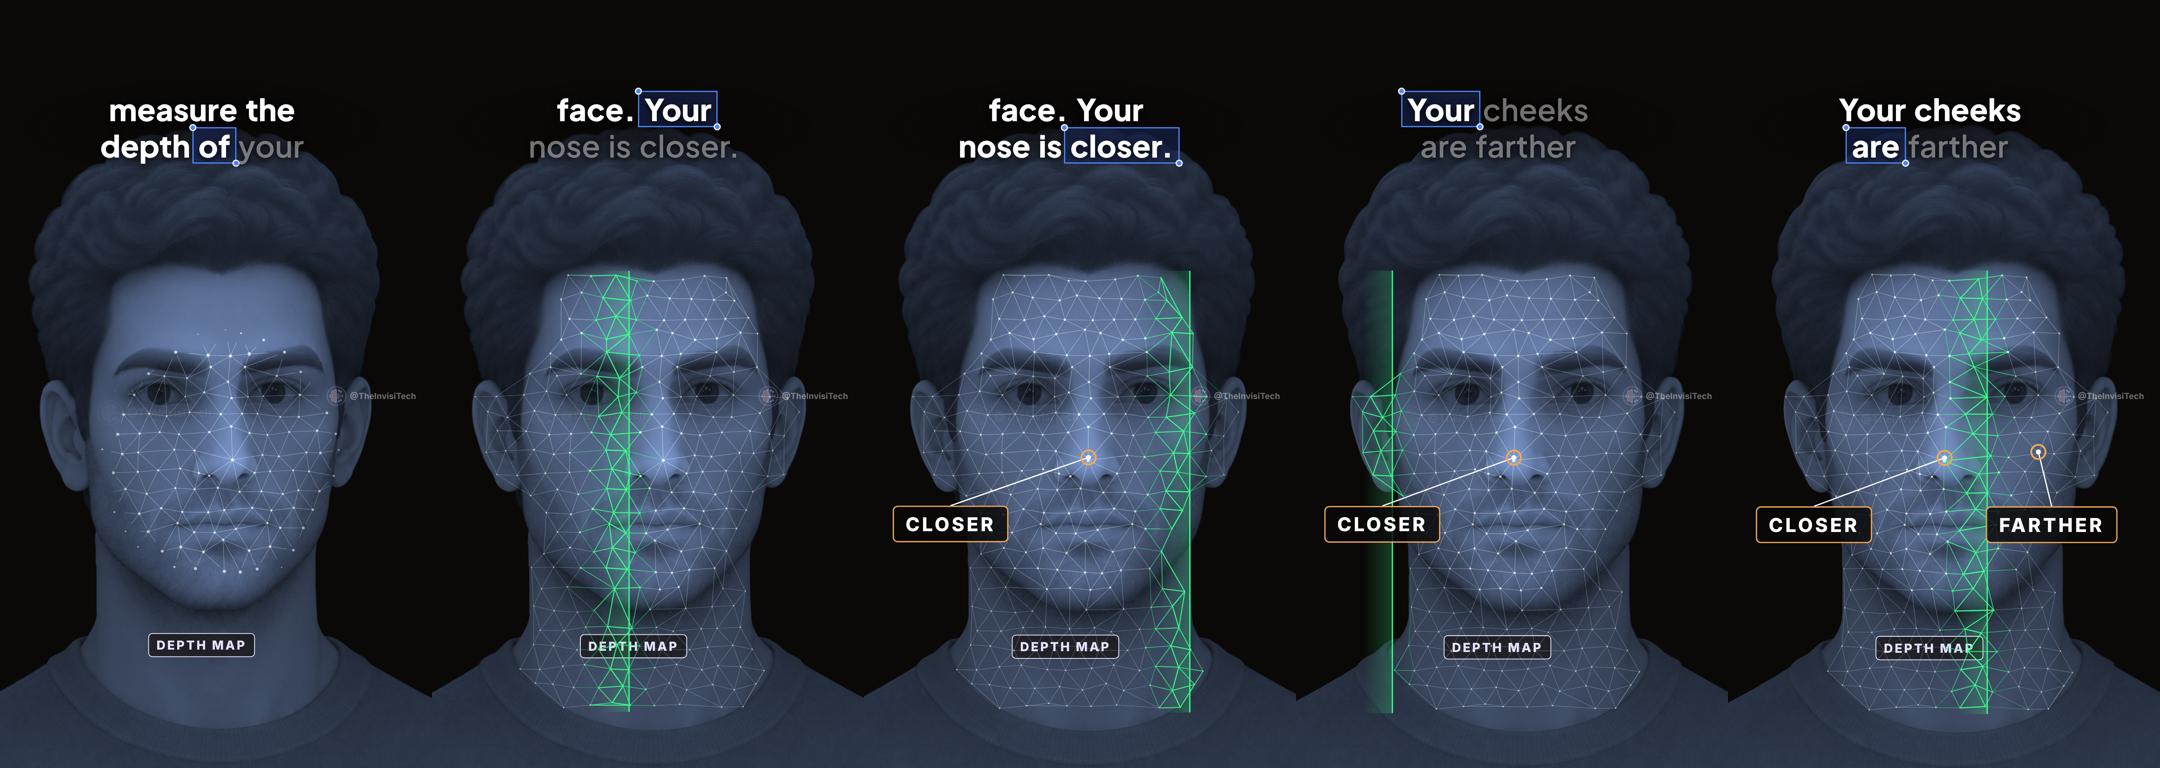
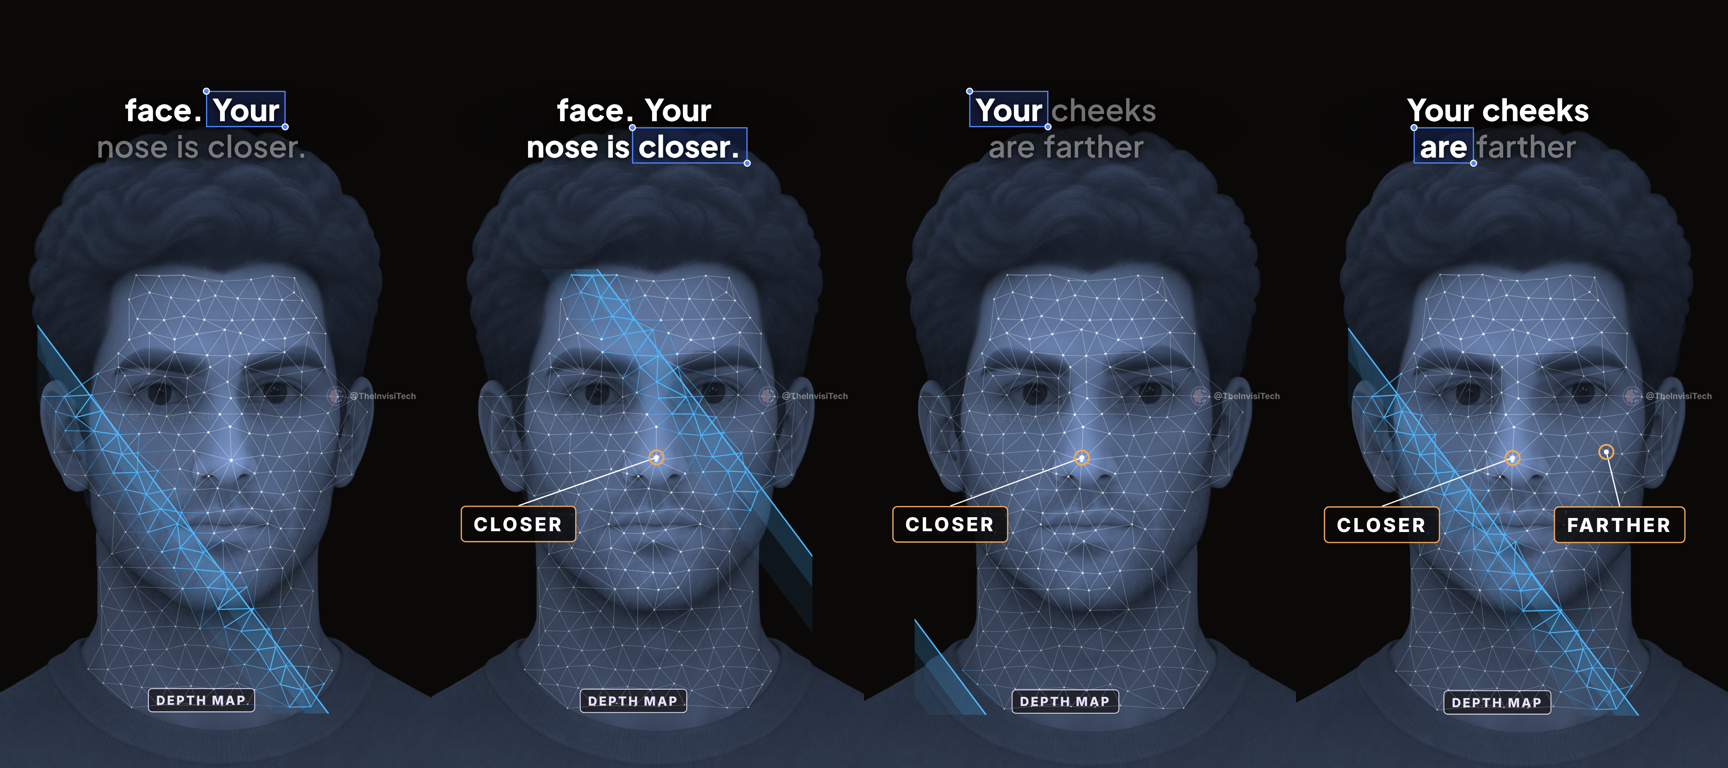
Mirror Short: tear-down happens on the phone (parts pulled up and explained); depth scan is a slanted blue line
Claude-Session: https://claude.ai/code/session_01GXcKc5WnFrVWBsHLe8YpAy

diff --git a/face-id/mirror-short/src/scenes/HandPhone.tsx b/face-id/mirror-short/src/scenes/HandPhone.tsx
@@ -6,13 +6,15 @@ import { FONT, ramp } from '../theme';
 //   0– 30  end of the hook: quick push toward the phone he is holding
 //  30– 50  zoom to the top of that phone
 //  54– 72  second zoom, right into its Dynamic Island; the screen takes on a pixel-grid look
-//  74–135  the TrueDepth parts inside the island are drawn and labelled one by one:
-//          IR CAMERA, FLOOD ILLUMINATOR, DOT PROJECTOR (+ the front camera lens)
+//  74– 94  the TrueDepth parts inside the island are drawn and named: IR CAMERA, FLOOD ILLUMINATOR, DOT PROJECTOR
+//  94–147  tear-down on the phone: the parts are pulled up out of the island, then explained one at a time
 // A closed padlock sits under the island; nothing is unlocked here.
 const K = 1080 / 752, TOP = -5;                        // still is 752 x 1344, shown full-bleed
 const ISL = { x: 377 * K, y: 183 * K + TOP, w: 112 * K, h: 32 * K };   // its Dynamic Island on screen at scale 1
 const out3 = (x: number) => 1 - Math.pow(1 - x, 3), io = (x: number) => x * x * (3 - 2 * x);
 const RED = '#ff4d63', BLUE = '#6fa8ff', TEAL = '#63d6c9';
+export const TEAR = 94;                                 // f at which the parts are pulled up out of the island
+const hash = (i: number) => { const x = Math.sin(i * 12.9898) * 43758.5453; return x - Math.floor(x); };
 
 export const HandPhone: React.FC<{ f: number }> = ({ f }) => {
   const z = ramp(f, 30, 50, 0, 1, io), z2 = ramp(f, 54, 72, 0, 1, io);
@@ -27,6 +29,13 @@ export const HandPhone: React.FC<{ f: number }> = ({ f }) => {
     { fx: 0.51, label: 'DOT PROJECTOR', ly: 592, at: 86, anchor: 'start' as const, lx: -8 },
   ];
   const r = h * 0.3;
+  const LIFT = 285, active = f < 106 ? -1 : Math.min(2, Math.floor((f - 106) / 14));
+  const MODS = [
+    { fx: 0.14, k: 1, at: 76, col: TEAL, label: 'IR CAMERA', does: 'reads the dots on your face' },
+    { fx: 0.31, k: 0.8, at: 79, col: RED, label: 'FLOOD ILLUMINATOR', does: 'lights your face in infrared' },
+    { fx: 0.51, k: 1, at: 84, col: RED, label: 'DOT PROJECTOR', does: 'fires 30,000+ invisible dots' },
+    { fx: 0.83, k: 1.25, at: 76, col: BLUE, label: 'FRONT CAMERA', does: '' },
+  ];
   return (
     <AbsoluteFill style={{ backgroundColor: '#000', overflow: 'hidden' }}>
       <div style={{ position: 'absolute', inset: 0, transformOrigin: `${ISL.x}px ${ISL.y}px`, transform: `translate(${cx - ISL.x}px, ${cy - ISL.y}px) scale(${s})` }}>
@@ -39,34 +48,46 @@ export const HandPhone: React.FC<{ f: number }> = ({ f }) => {
       <AbsoluteFill style={{ opacity: 0.55 * ramp(f, 60, 74), background: 'radial-gradient(70% 45% at 50% 42%, rgba(60,70,160,.0), rgba(20,24,70,.55))' }} />
       {f >= 66 && <svg width={1080} height={1920} style={{ position: 'absolute', inset: 0, opacity: on }}>
         <rect x={left} y={top} width={w} height={h} rx={h / 2} fill="#04050a" />
-        {/* IR camera */}
-        <g opacity={ramp(f, 76, 80)}>
-          <circle cx={part(0.14)} cy={cy} r={r} fill="#0b0d16" stroke={TEAL} strokeWidth={5} strokeDasharray="7 6" />
-          <circle cx={part(0.14) - r * 0.2} cy={cy - r * 0.2} r={r * 0.16} fill={BLUE} />
-        </g>
-        {/* flood illuminator */}
-        <rect x={part(0.31) - r * 0.55} y={cy - r * 0.55} width={r * 1.1} height={r * 1.1} rx={6} fill="#1a0b10" stroke={RED} strokeWidth={4} strokeDasharray="6 5" opacity={ramp(f, 79, 83)} />
-        {/* dot projector */}
-        <g opacity={ramp(f, 84, 88)}>
-          <circle cx={part(0.51)} cy={cy} r={r} fill="#2a0c12" stroke={RED} strokeWidth={5} strokeDasharray="7 6" />
-          {[-0.45, -0.15, 0.15, 0.45].map((k) => <line key={k} x1={part(0.51) - r * 0.6} x2={part(0.51) + r * 0.6} y1={cy + r * k} y2={cy + r * k} stroke="#ffb3bd" strokeWidth={3.5} strokeDasharray="9 5" />)}
-        </g>
-        {/* front camera (not part of the labels) */}
-        <g opacity={ramp(f, 76, 80)}>
-          <circle cx={part(0.83)} cy={cy} r={r * 1.25} fill="#0a0d1e" stroke={BLUE} strokeWidth={5} strokeDasharray="7 6" />
-          <circle cx={part(0.83)} cy={cy} r={r * 0.62} fill="#131c44" /><circle cx={part(0.83) - r * 0.22} cy={cy - r * 0.25} r={r * 0.17} fill="#9fb6ff" />
-        </g>
-        {PARTS.map((p) => { const o = ramp(f, p.at, p.at + 4), x = part(p.fx); return (
+        {/* tear-down, on the phone itself: from TEAR the parts are pulled straight up out of the island, leaving their
+            sockets behind, and each one is explained in turn */}
+        {MODS.map((m, i) => { const x = part(m.fx), tr = ramp(f, TEAR + i * 2, TEAR + 10 + i * 2, 0, 1, out3), act = active === i, sc = (1 + 0.3 * tr) * (act ? 1.18 + 0.04 * Math.sin(f / 2) : 1), y = cy - LIFT * tr;
+          return (
+            <g key={m.label}>
+              {tr > 0 && <><circle cx={x} cy={cy} r={r * m.k * 0.92} fill="#000" stroke="#2a2d3a" strokeWidth={3} />
+                <line x1={x} y1={cy - r * m.k} x2={x} y2={y + r * m.k * sc} stroke={m.col} strokeWidth={2.5} strokeDasharray="6 8" opacity={0.7} /></>}
+              <g transform={`translate(${x} ${y}) scale(${sc})`} opacity={ramp(f, m.at, m.at + 4) * (active >= 0 && !act && i < 3 ? 0.45 : 1)}>
+                {i === 0 && <><circle r={r} fill="#0b0d16" stroke={TEAL} strokeWidth={5} strokeDasharray="7 6" /><circle cx={-r * 0.2} cy={-r * 0.2} r={r * 0.16} fill={BLUE} /></>}
+                {i === 1 && <rect x={-r * 0.55} y={-r * 0.55} width={r * 1.1} height={r * 1.1} rx={6} fill="#1a0b10" stroke={RED} strokeWidth={4} strokeDasharray="6 5" />}
+                {i === 2 && <><circle r={r} fill="#2a0c12" stroke={RED} strokeWidth={5} strokeDasharray="7 6" />
+                  {[-0.45, -0.15, 0.15, 0.45].map((k) => <line key={k} x1={-r * 0.6} x2={r * 0.6} y1={r * k} y2={r * k} stroke="#ffb3bd" strokeWidth={3.5} strokeDasharray="9 5" />)}</>}
+                {i === 3 && <><circle r={r * 1.25} fill="#0a0d1e" stroke={BLUE} strokeWidth={5} strokeDasharray="7 6" /><circle r={r * 0.62} fill="#131c44" /><circle cx={-r * 0.22} cy={-r * 0.25} r={r * 0.17} fill="#9fb6ff" /></>}
+              </g>
+              {/* what the active part does, shown with light */}
+              {act && i === 0 && [0, 1, 2].map((k) => { const u = ((f / 12) + k / 3) % 1; return <circle key={k} cx={x} cy={y} r={r * sc * (1.9 - 0.9 * u)} fill="none" stroke={TEAL} strokeWidth={3} opacity={0.8 * u} />; })}
+              {act && i === 1 && <path d={`M ${x} ${y} L ${x - 190} ${y - 300} L ${x + 190} ${y - 300} Z`} fill={RED} opacity={0.16 + 0.08 * Math.sin(f / 2)} />}
+              {act && i === 2 && Array.from({ length: 46 }, (_, k) => { const u = ((f - 134) / 12 + hash(k)) % 1, a = (hash(k + 7) - 0.5) * 1.5; return <circle key={k} cx={x + Math.sin(a) * 300 * u} cy={y - r - 300 * u} r={3 + 2 * u} fill={RED} opacity={0.95 * (1 - u)} />; })}
+            </g>); })}
+        {/* first pass: the three parts are named while still in the island */}
+        {PARTS.map((p) => { const o = ramp(f, p.at, p.at + 4) * (1 - ramp(f, TEAR - 4, TEAR)), x = part(p.fx); return (
           <g key={p.label} opacity={o}>
             <line x1={x} y1={p.ly + 22} x2={x} y2={cy - r - 6} stroke="#fff" strokeWidth={2.5} /><circle cx={x} cy={cy - r - 6} r={5} fill="#fff" />
             <text x={x + p.lx} y={p.ly} textAnchor={p.anchor} fill="#fff" style={{ font: `800 38px ${FONT}`, letterSpacing: '0.13em' }}>{p.label}</text>
           </g>); })}
         {/* closed padlock, as on the lock screen */}
-        <g transform={`translate(540 ${top + h + 250})`} opacity={ramp(f, 72, 78)}>
+        <g transform={`translate(540 ${top + h + 250})`} opacity={ramp(f, 72, 78) * (1 - 0.6 * ramp(f, TEAR, TEAR + 8))}>
           <path d="M -44 0 v -40 a 44 44 0 0 1 88 0 v 40" stroke="#fff" strokeWidth={20} strokeLinecap="round" fill="none" />
           <rect x={-72} y={0} width={144} height={112} rx={26} fill="#fff" />
         </g>
       </svg>}
+      <AbsoluteFill style={{ backgroundColor: '#000', opacity: 0.45 * ramp(f, TEAR, TEAR + 8), pointerEvents: 'none', mixBlendMode: 'multiply' }} />
+      {/* explanation card: one part at a time */}
+      {active >= 0 && (() => { const m = MODS[active], o = ramp(f, 106 + active * 14, 109 + active * 14); return (
+        <div style={{ position: 'absolute', left: 60, right: 60, top: 190, textAlign: 'center', opacity: o, transform: `translateY(${10 * (1 - o)}px)` }}>
+          <div style={{ display: 'inline-block', padding: '20px 30px', borderRadius: 18, background: 'rgba(6,6,12,.86)', border: `3px solid ${m.col}` }}>
+            <div style={{ font: `800 58px/1 ${FONT}`, letterSpacing: '0.08em', color: m.col }}>{m.label}</div>
+            <div style={{ font: `700 42px/1.2 ${FONT}`, color: '#fff', marginTop: 12 }}>{m.does}</div>
+          </div>
+        </div>); })()}
     </AbsoluteFill>
   );
 };

diff --git a/face-id/mirror-short/src/scenes/Scan.tsx b/face-id/mirror-short/src/scenes/Scan.tsx
@@ -11,7 +11,7 @@ import { Orbit3D } from './Orbit3D';
 // 220–268  the same dots as a cyan point cloud                              "Your iPhone uses it to measure"
 // 268–432  DEPTH MAP: face mesh ("the depth of your face"); CLOSER on "nose" (317), FARTHER on "cheeks" (351)
 export const CUE = { front: 147, cyan: 187, depth: 237, nose: 284, cheek: 318, turn: 329, end: 369 };
-const MESH = '#dff3ff', SCAN = '#3dff8f';
+const MESH = '#dff3ff', SCAN = '#4db8ff';
 const pt = (a: number[]) => ({ x: a[0], y: a[1], d: a[2] });
 const NOSE = pt(front.nose), CHEEK = pt(front.cheek);
 
@@ -57,8 +57,13 @@ export const Scan: React.FC = () => {
         const far = Math.max(...P.map((q) => Math.hypot(q[0] - front.nose[0], q[1] - front.nose[1])));
         const when = (k: number) => t0 + (Math.hypot(P[k][0] - front.nose[0], P[k][1] - front.nose[1]) / far) * SPAN;
         const xs = L.map((q) => q[0]), ys = L.map((q) => q[1]), X0 = Math.min(...xs), X1 = Math.max(...xs), Y0 = Math.min(...ys), Y1 = Math.max(...ys);
-        const sweep = s < t0 + SPAN - 6 ? -1 : ((s - (t0 + SPAN - 6)) % 44) / 44, xb = X0 - 40 + (X1 - X0 + 80) * sweep;
-        const band = (x: number) => (sweep < 0 ? 0 : Math.max(0, 1 - Math.abs(x - xb + 30) / 80));
+        // the scan line is slanted (it runs from upper left to lower right) and sweeps across the web from left to right
+        const DX = 0.6, DY = 0.8, NX = 0.8, NY = -0.6, MX = (X0 + X1) / 2, MY = (Y0 + Y1) / 2;
+        const pr = (x: number, y: number) => (x - MX) * NX + (y - MY) * NY;                // distance across the sweep
+        const ext = Math.max(...L.map((q) => Math.abs(pr(q[0], q[1])))) + 40;
+        const sweep = s < t0 + SPAN - 6 ? -1 : ((s - (t0 + SPAN - 6)) % 50) / 50, pb = -ext + 2 * ext * sweep;
+        const band = (x: number, y: number) => (sweep < 0 ? 0 : Math.max(0, 1 - Math.abs(pr(x, y) - pb + 30) / 80));
+        const at = (p: number, t: number) => `${MX + NX * p + DX * t},${MY + NY * p + DY * t}`;
         return (
           <svg width={1080} height={1920} style={{ position: 'absolute', inset: 0 }}>
             {E.map(([a0, b0], i) => {
@@ -66,16 +71,19 @@ export const Scan: React.FC = () => {
               const g = ramp(s, when(a) + 2, when(b) + 4);
               if (g <= 0) return null;
               const near = (L[a][2] + L[b][2]) / 2;                                // nearer strands are brighter
-              const k = band((L[a][0] + L[b][0]) / 2);                             // inside the green scan band
+              const k = band((L[a][0] + L[b][0]) / 2, (L[a][1] + L[b][1]) / 2);                             // inside the green scan band
               return <line key={i} x1={L[a][0]} y1={L[a][1]} x2={L[a][0] + (L[b][0] - L[a][0]) * g} y2={L[a][1] + (L[b][1] - L[a][1]) * g} stroke={k > 0.02 ? SCAN : MESH} strokeWidth={1.1 + 1.5 * k} opacity={Math.min(1, 0.18 + 0.6 * near + 0.7 * k)} />;
             })}
-            {L.map(([x, y, d], i) => { const k = ramp(s, when(i), when(i) + 4); return k > 0 ? <circle key={i} cx={x} cy={y} r={(1.4 + 2.6 * d) * k * (1 + 1.2 * (1 - ramp(s, when(i), when(i) + 9)))} fill={band(x) > 0.3 ? SCAN : '#fff'} opacity={0.35 + 0.65 * d} /> : null; })}
+            {L.map(([x, y, d], i) => { const k = ramp(s, when(i), when(i) + 4); return k > 0 ? <circle key={i} cx={x} cy={y} r={(1.4 + 2.6 * d) * k * (1 + 1.2 * (1 - ramp(s, when(i), when(i) + 9)))} fill={band(x, y) > 0.3 ? SCAN : '#fff'} opacity={0.35 + 0.65 * d} /> : null; })}
             {/* the scan: a green band sweeps the whole web from left to right, again and again */}
             <g opacity={ramp(s, t0 + SPAN - 6, t0 + SPAN)}>
-              <rect x={xb - 70} y={Y0 - 10} width={70} height={Y1 - Y0 + 20} fill="url(#scan-g)" />
-              <line x1={xb} x2={xb} y1={Y0 - 10} y2={Y1 + 10} stroke={SCAN} strokeWidth={3} />
+              <g clipPath="url(#scan-clip)">
+                <polygon points={`${at(pb, -1200)} ${at(pb, 1200)} ${at(pb - 45, 1200)} ${at(pb - 45, -1200)}`} fill={SCAN} opacity={0.16} />
+                <polygon points={`${at(pb, -1200)} ${at(pb, 1200)} ${at(pb - 110, 1200)} ${at(pb - 110, -1200)}`} fill={SCAN} opacity={0.08} />
+                <polyline points={`${at(pb, -1200)} ${at(pb, 1200)}`} stroke={SCAN} strokeWidth={3.5} />
+              </g>
             </g>
-            <defs><linearGradient id="scan-g" x1="0" x2="1"><stop offset="0" stopColor={SCAN} stopOpacity={0} /><stop offset="1" stopColor={SCAN} stopOpacity={0.22} /></linearGradient></defs>
+            <defs><clipPath id="scan-clip"><rect x={X0 - 14} y={Y0 - 14} width={X1 - X0 + 28} height={Y1 - Y0 + 28} /></clipPath></defs>
           </svg>
         );
       })()}

diff --git a/face-id/mirror-short/src/scenes/TrueDepth.tsx b/face-id/mirror-short/src/scenes/TrueDepth.tsx
@@ -1,8 +1,7 @@
 import { useCurrentFrame } from 'remotion';
-import { HandPhone } from './HandPhone';
-import { Teardown } from './Teardown';
+import { HandPhone, TEAR as HAND_TEAR } from './HandPhone';
 
 // Scene 2 (2.5–6.2 s): stays on the phone in his hand (continues the hook's last shot, 30 frames in): fast zoom
-// to its Dynamic Island, the TrueDepth parts are labelled, then (TEAR frames in) the front camera is torn down.
-export const TEAR = 64;
-export const TrueDepth: React.FC = () => { const fr = useCurrentFrame(); return fr < TEAR ? <HandPhone f={30 + fr} /> : <Teardown t={fr - TEAR} />; };
+// to its Dynamic Island, the TrueDepth parts are named, then pulled up out of the island and explained.
+export const TEAR = HAND_TEAR - 30;
+export const TrueDepth: React.FC = () => <HandPhone f={30 + useCurrentFrame()} />;

diff --git a/face-id/mirror-short/src/MirrorFaceID.tsx b/face-id/mirror-short/src/MirrorFaceID.tsx
@@ -24,7 +24,7 @@ export const MirrorFaceID: React.FC<TestProps> = (props) => {
     <AbsoluteFill style={{ backgroundColor: '#000' }}>
       {/* ---- VIDEO ---- */}
       <Sequence name="1 · Mirror hook" {...S('hook')}><Hook /></Sequence>
-      <Sequence name="2 · TrueDepth reveal" {...S('truedepth')}><Shot dur={D('truedepth')} enter={false} snaps={[[TEAR, 1.5]]}><TrueDepth /></Shot></Sequence>
+      <Sequence name="2 · TrueDepth reveal" {...S('truedepth')}><Shot dur={D('truedepth')} enter={false} snaps={[[TEAR, 1.12]]}><TrueDepth /></Shot></Sequence>
       <Sequence name="3 · Dots, infrared view and depth web" {...S('scan')}>
         <Shot dur={D('scan')} snaps={[[CUE.front, 1.3], [CUE.cyan, 1.3], [CUE.depth, 1.25]]}><Scan /></Shot>
       </Sequence>

diff --git a/face-id/mirror-short/src/script.ts b/face-id/mirror-short/src/script.ts
@@ -30,7 +30,7 @@ export const HOOK_CUTS: { name: string; srcStart: number; dur: number; zoom?: Ho
 export const CAPTION_TOP_DEFAULT = 230;
 export const CAPTION_PLACEMENT: { from: number; to: number; top: number }[] = [
   { from: 1.5, to: 3.0, top: 1300 },
-  { from: 4.6, to: 6.2, top: 200 },      // teardown: above the exploded camera
+  { from: 4.6, to: 6.2, top: 1340 },     // tear-down: the parts and their explanation use the top, so the caption goes below the padlock
   { from: 6.2, to: 11.10, top: 185 },
   { from: 12.43, to: 14.12, top: 185 },
   { from: 18.5, to: 26.19, top: 170 },   // comparison: the picture sits lower, the caption stays in the clear band above it
